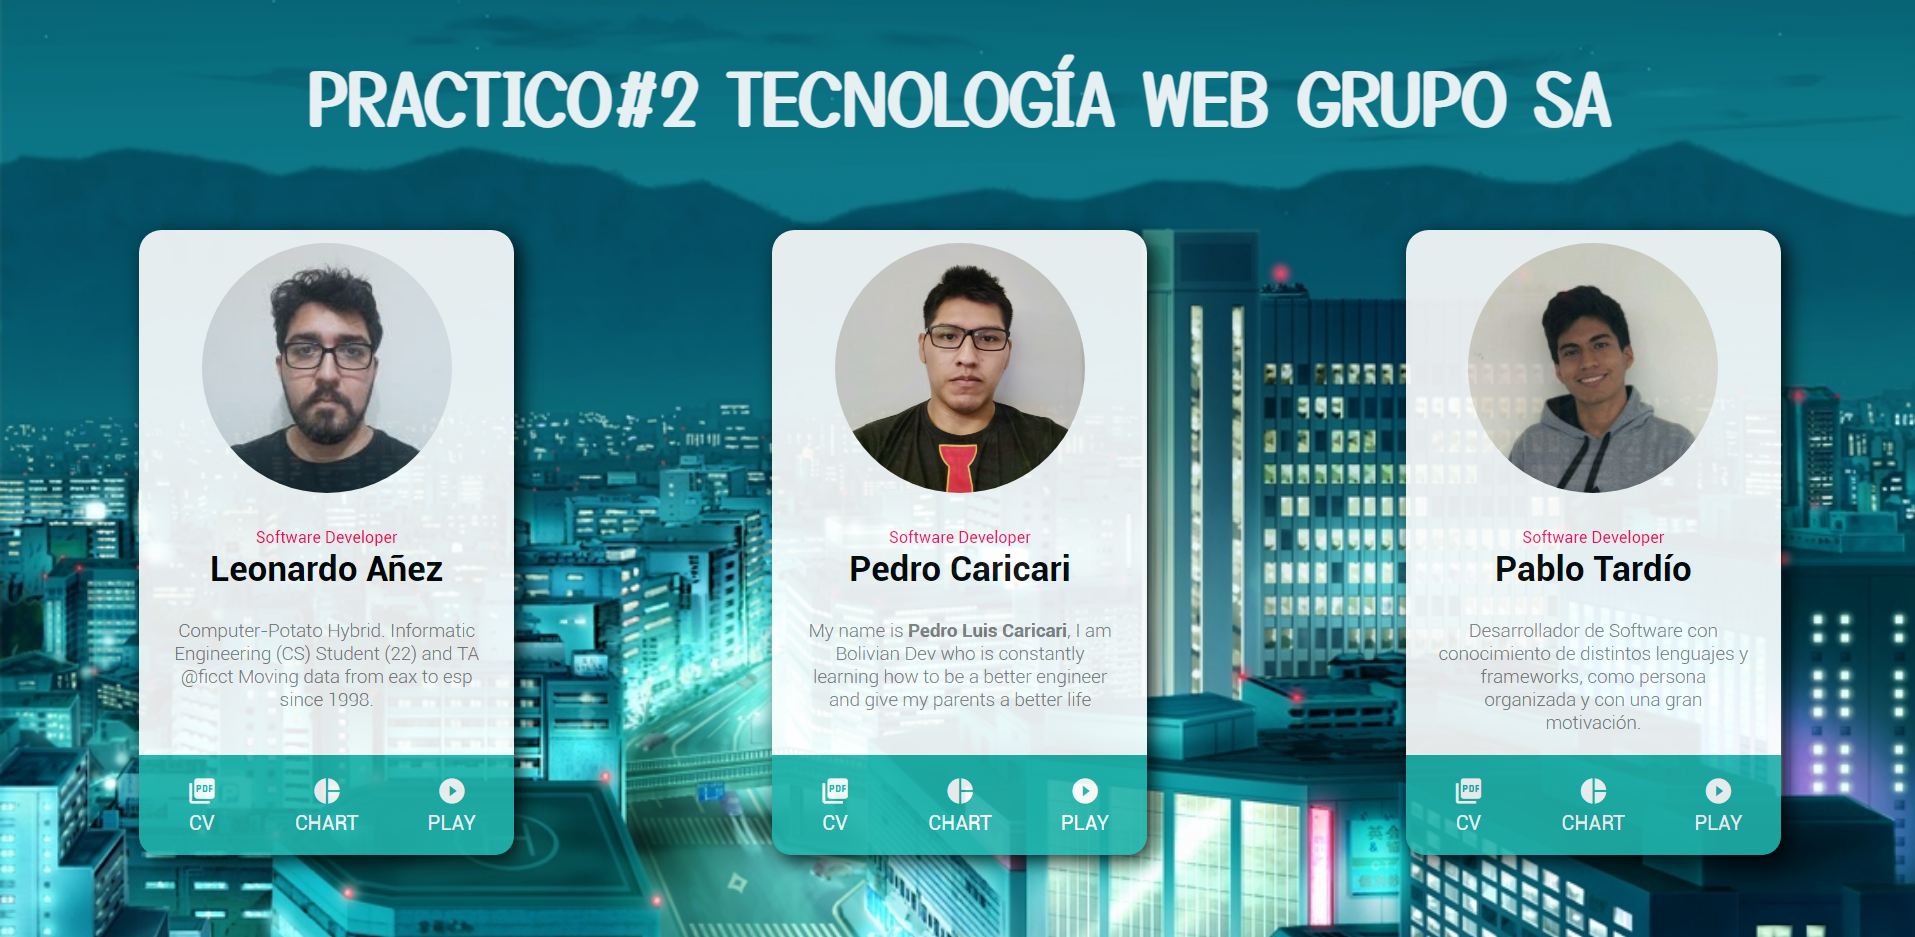
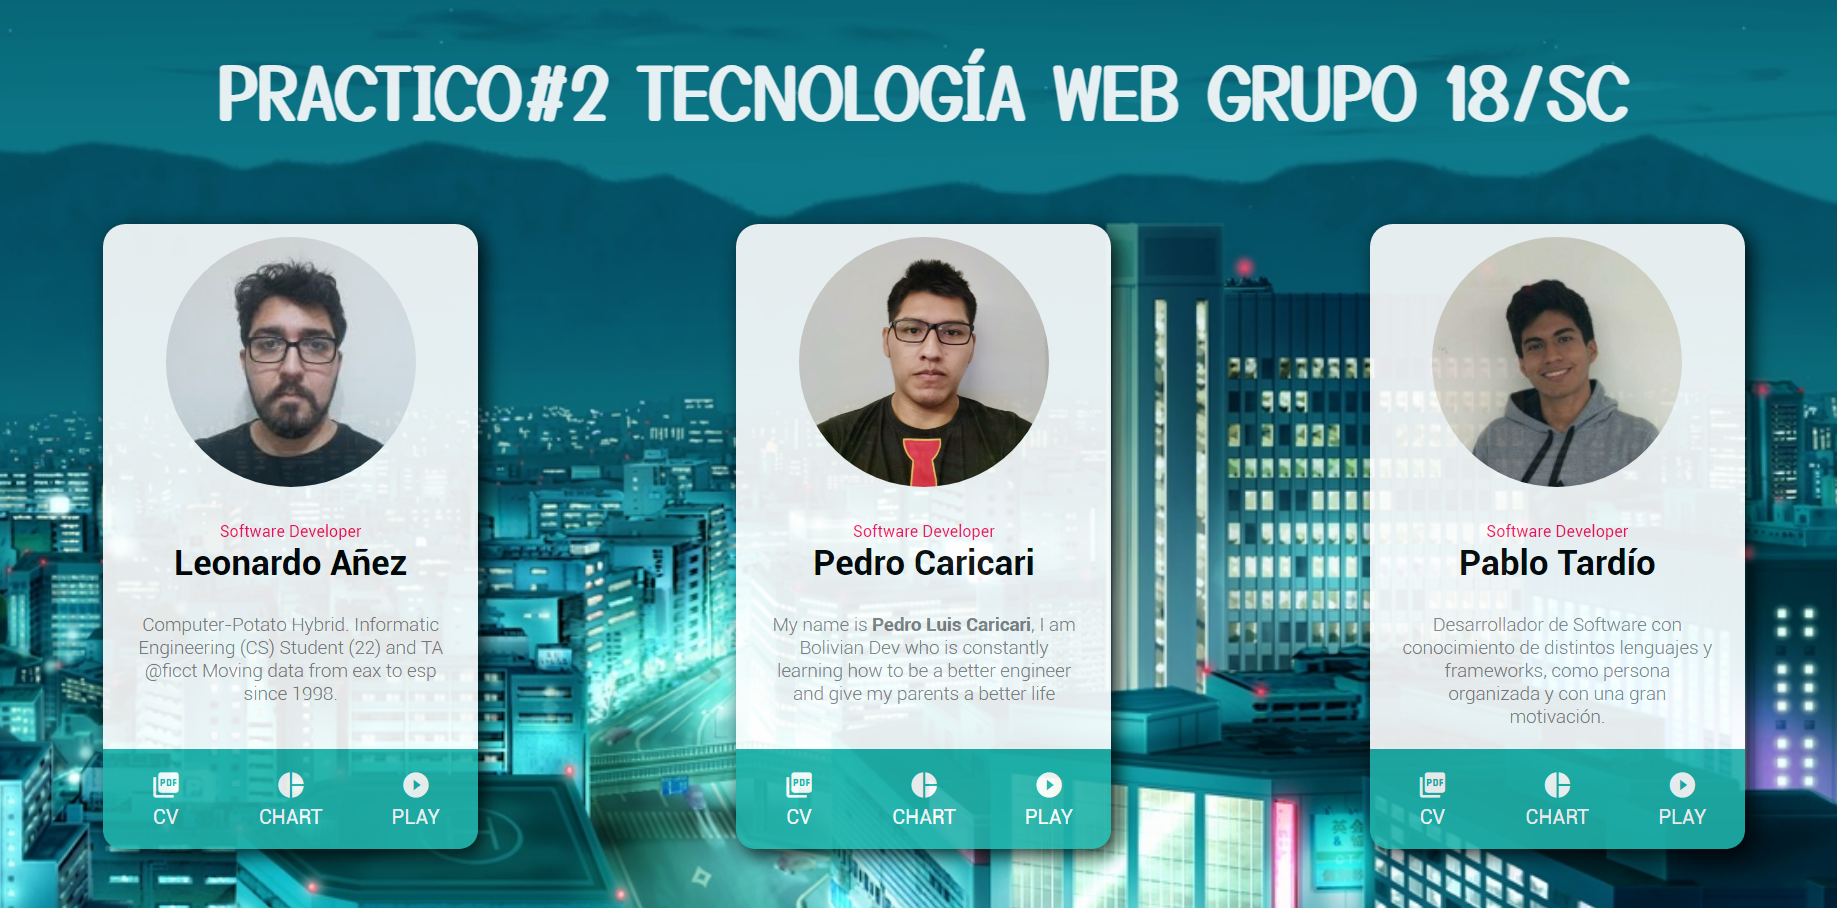
rehecho el readme imagen reemplazada

diff --git a/index.html b/index.html
@@ -15,7 +15,7 @@
         <!-- <div class="title"> -->
         <h1>
             PRACTICO#2 TECNOLOGÍA WEB
-            <strong>GRUPO 13/SC</strong>
+            <strong>GRUPO 18/SC</strong>
         </h1>
         <!-- </div> -->
     </header>
@@ -257,7 +257,7 @@
                 <div class="modal-content">
                     <div class="modal-header">
                         <span class="close">&times;</span>
-                        <h2>Services Known</h2>
+                        <h2>Estadisticas T </h2>
                     </div>
                     <div class="modal-body">
                         <canvas id="chartPablo"></canvas>
@@ -400,34 +400,14 @@
         ctx = document.getElementById('chartPablo').getContext('2d');
         chart = new Chart(ctx,
             {
-                type: "doughnut",
-                data: {
-                    labels: [
-                        "AWS", "GCP", "FIREBASE MLKIT",
-                        "AZURE", "ALAN AI", "HEROKU",
-                        "TENSORFLOW"
-                    ],
-                    datasets: [
-                        {
-                            label: "My First Dataset",
-                            data: [
-                                80, 60, 90,
-                                85, 65, 75,
-                                80,
-                            ],
-                            backgroundColor: [
-                                `rgba(239, 99, 37,${alfa})`,
-                                `rgba(  5,101, 74,${alfa})`,
-                                `rgba(  3,110, 56,${alfa})`,
-
-                                `rgba(  0,169,237,${alfa})`,
-                                `rgba( 20, 58,131,${alfa})`,
-                                `rgba(224, 34, 18,${alfa})`,
-                                `rgba(236,131,174,${alfa})`,
-                            ]
-                        }
-                    ]
-                }
+                type: "line",
+                data: [{
+    x: 10,
+    y: 20
+}, {
+    x: 15,
+    y: 10
+}]
             });
     </script>
 </body>
